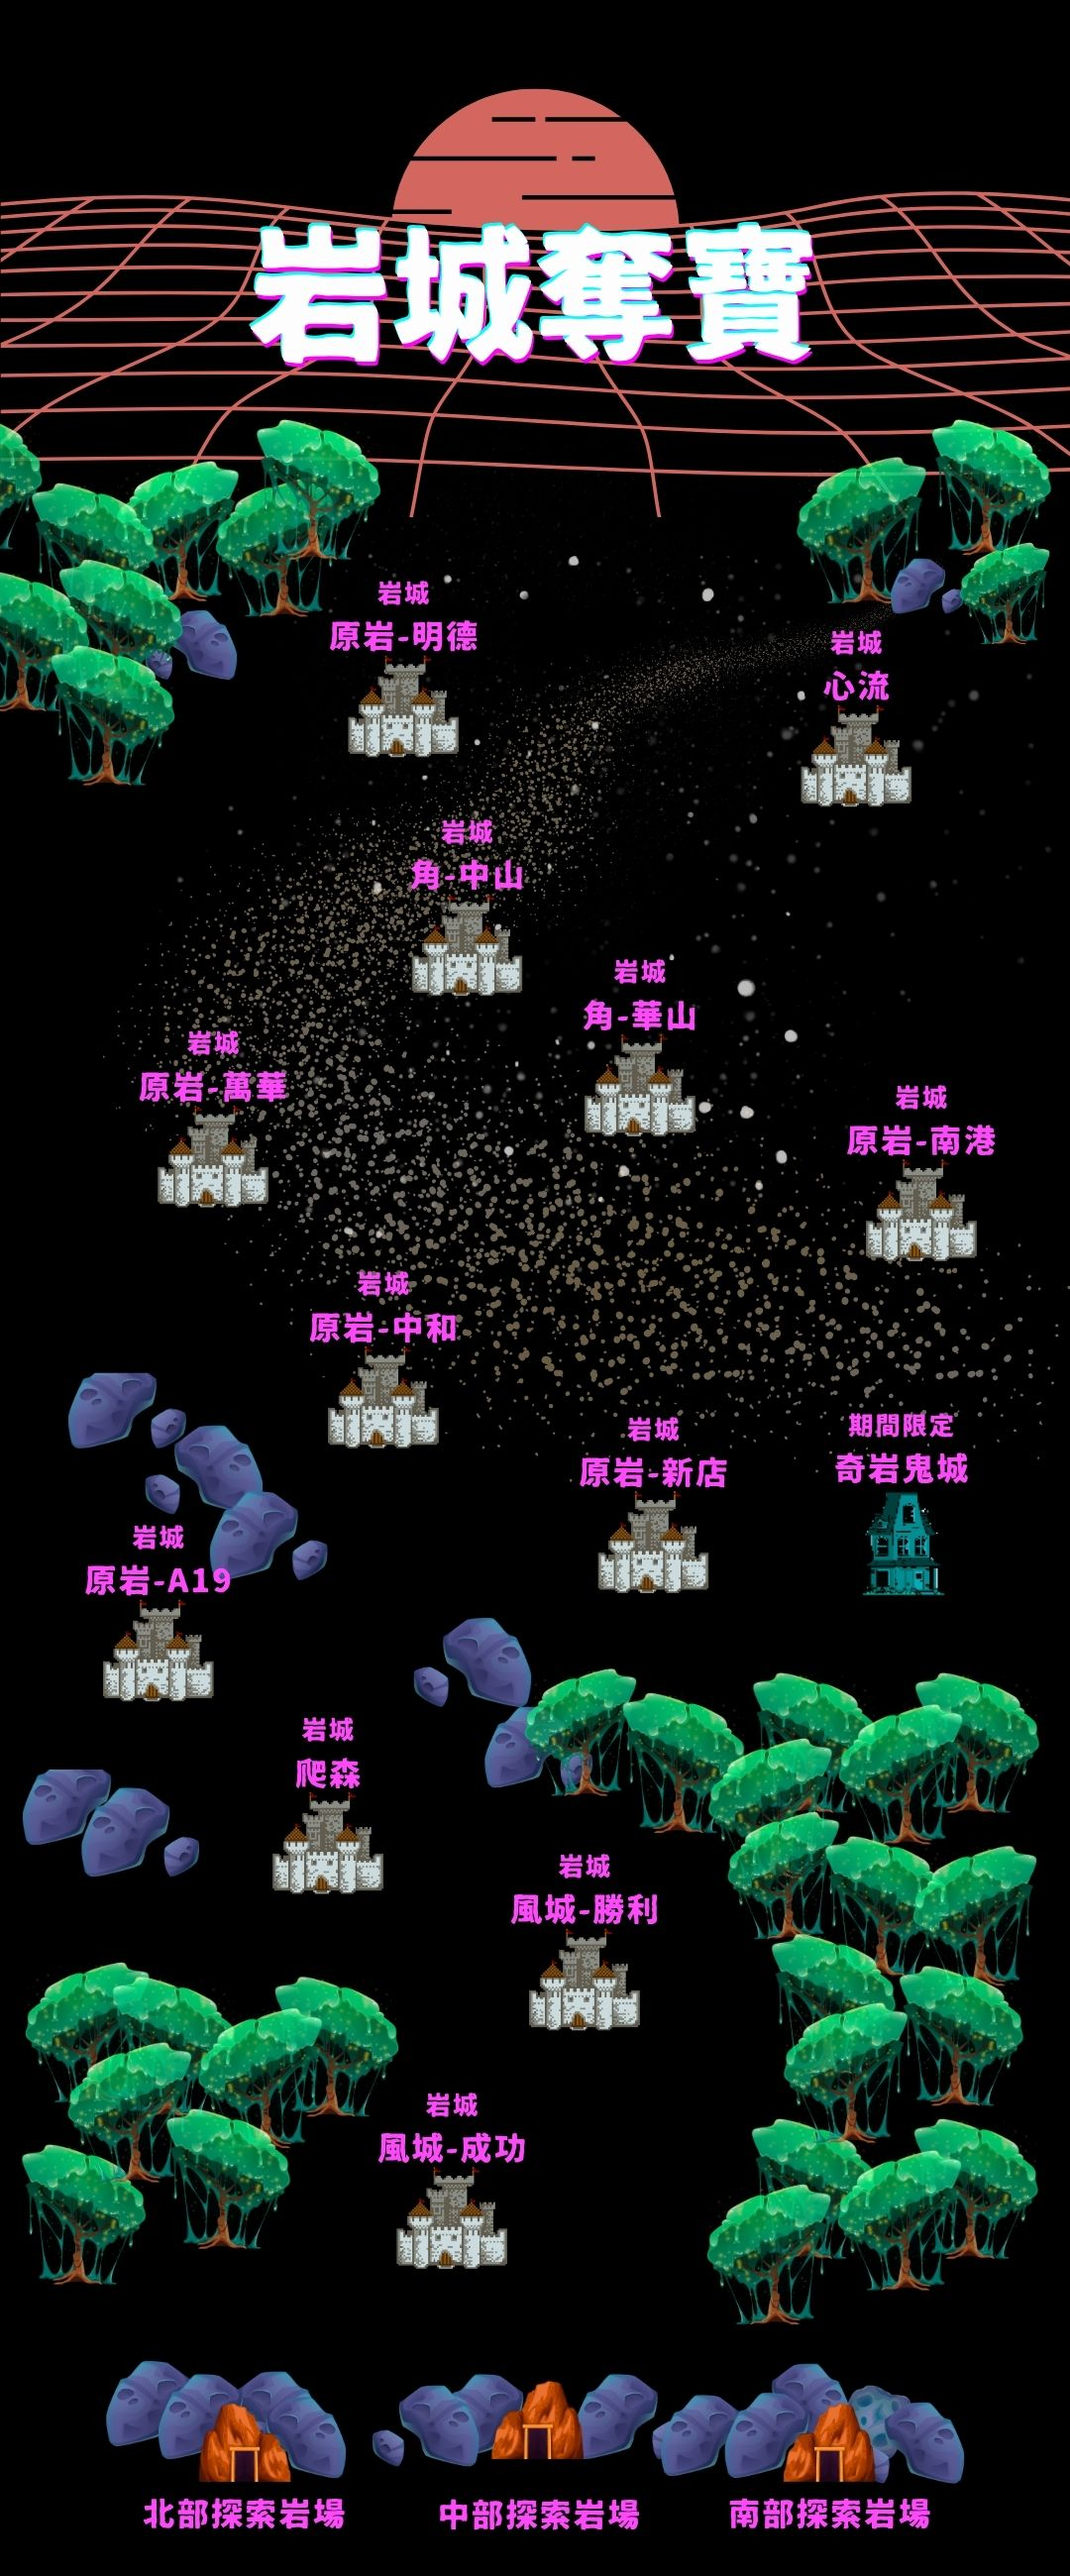
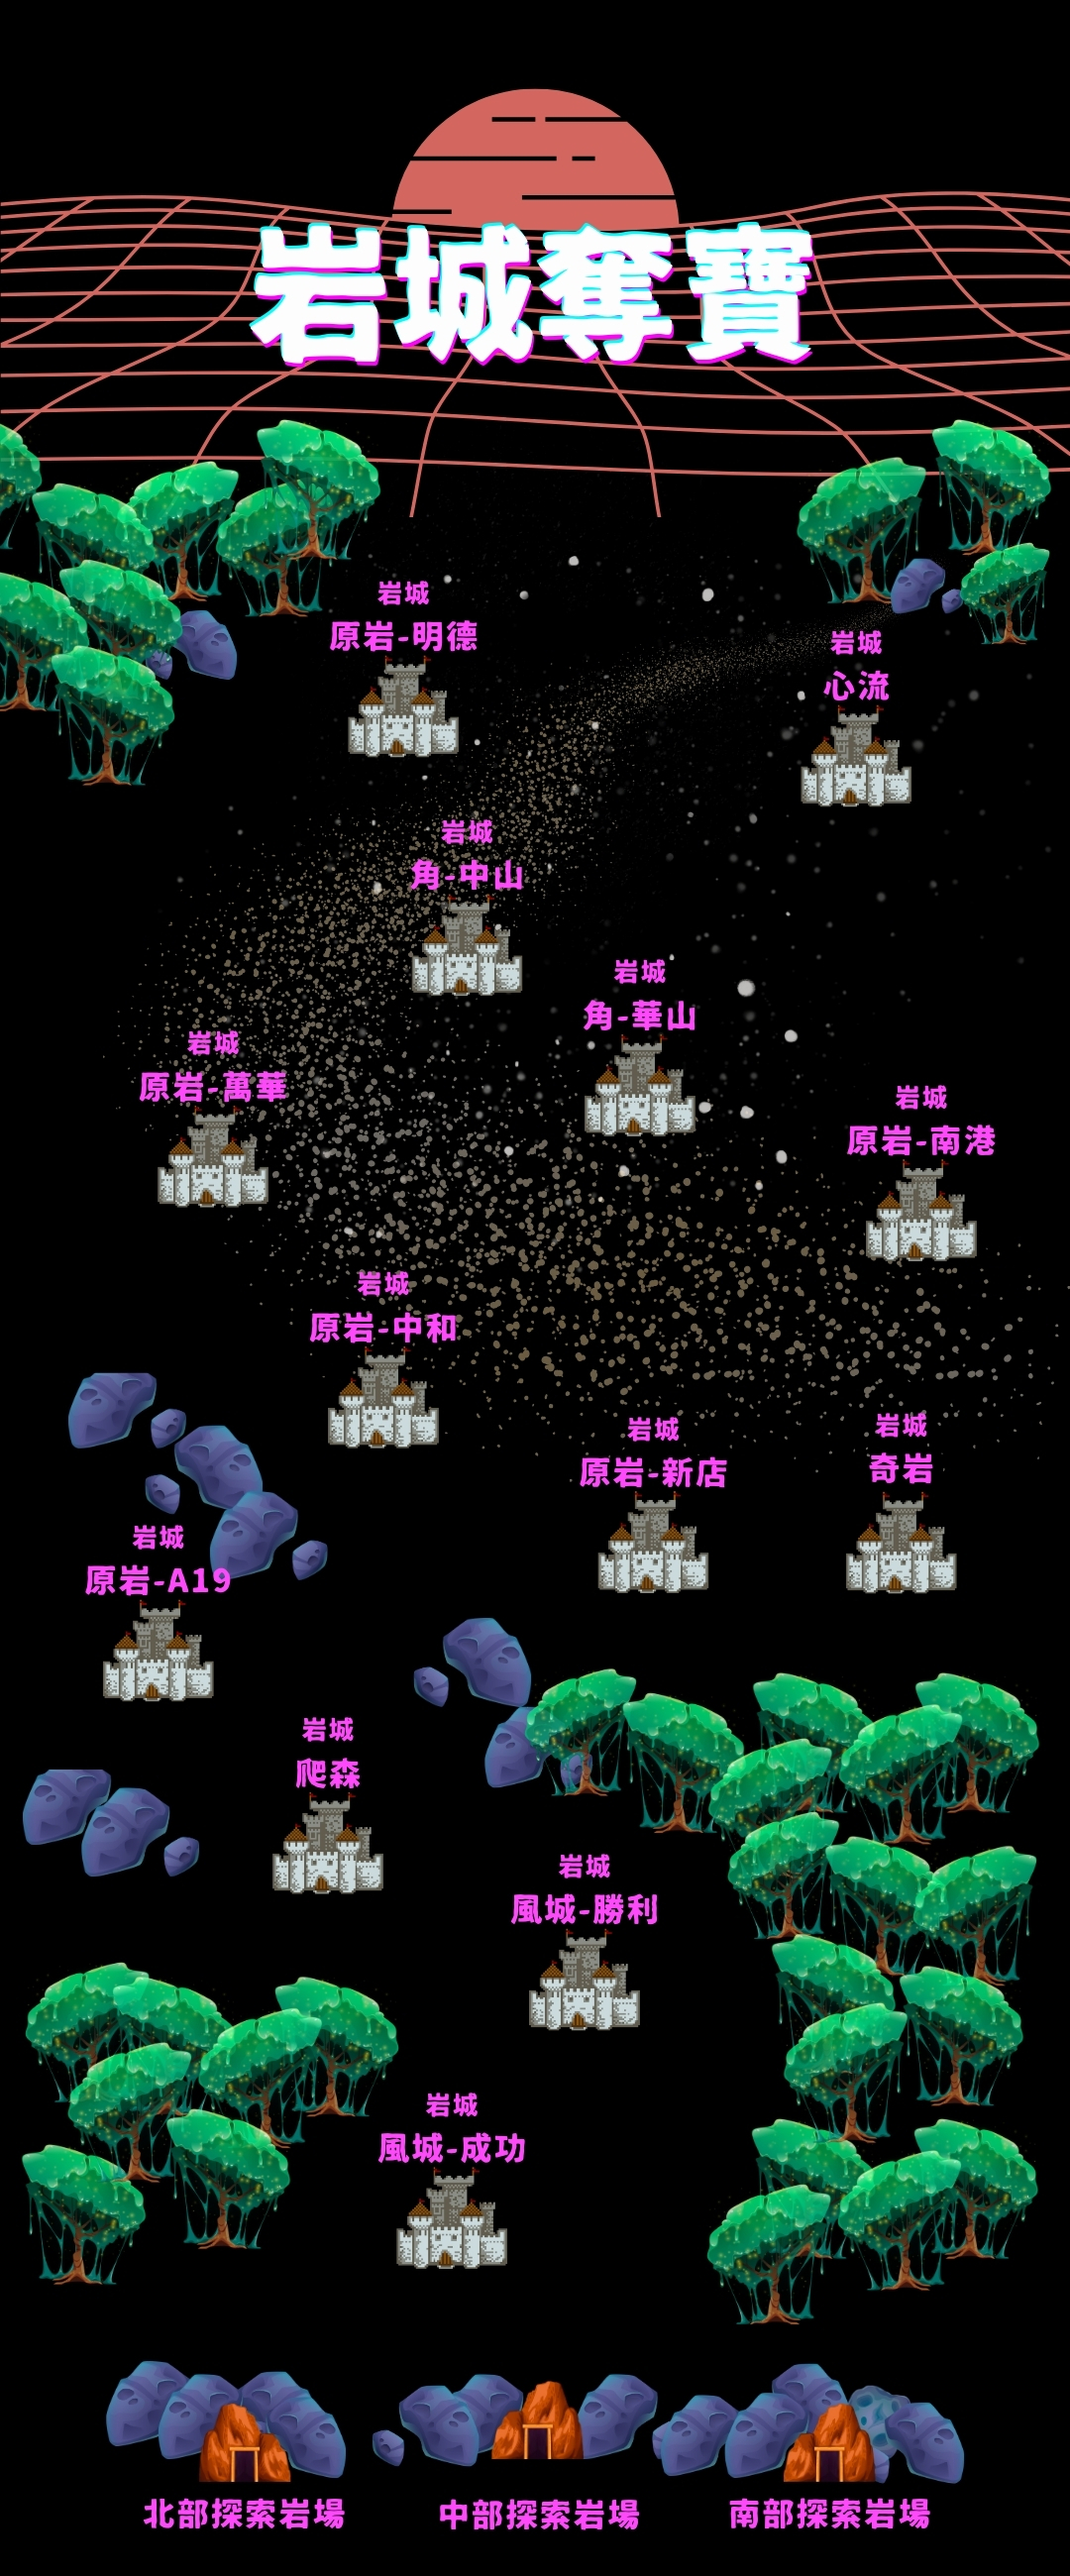
202511T

Changed region(s): [[0.7639, 0.5296, 0.9167, 0.6231]]

diff --git a/src/app/components/Castle4.js b/src/app/components/Castle4.js
@@ -620,7 +620,7 @@ const Castle4 = ({ data, period, scoresNoLimitsGymDate }) => {
       Passion: { x: 0.301, y: 0.723, cname: '爬森' },
       'Iclimb Shengli': { x: 0.541, y: 0.776, cname: '風城勝利' },
       'Iclimb Chenggong': { x: 0.416, y: 0.868, cname: '風城成功' },
-      'Kirin奇岩': { x: 0.842, y: 0.607, cname: '奇岩', isGhost: 'Y' },
+      'Kirin奇岩': { x: 0.842, y: 0.607, cname: '奇岩', isGhost: 'N' },
     };
 
     // 這裡定義要繪製的圖層

diff --git a/src/app/page.js b/src/app/page.js
@@ -32,7 +32,7 @@ export default function Home() {
 
   // 初始載入
   useEffect(() => {
-    handlePeriodChange('202510T');
+    handlePeriodChange('202511T');
   }, []);
 
   return (
